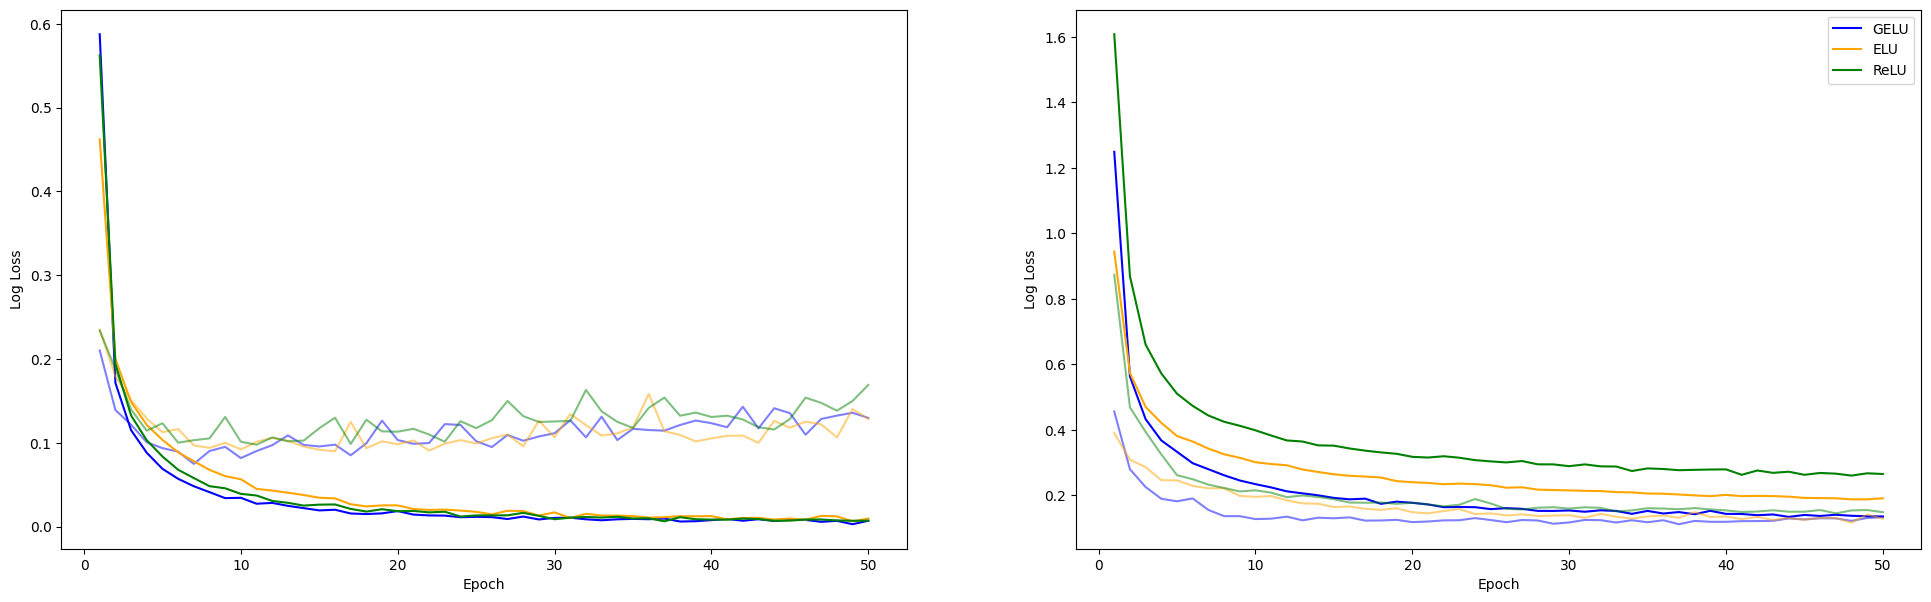
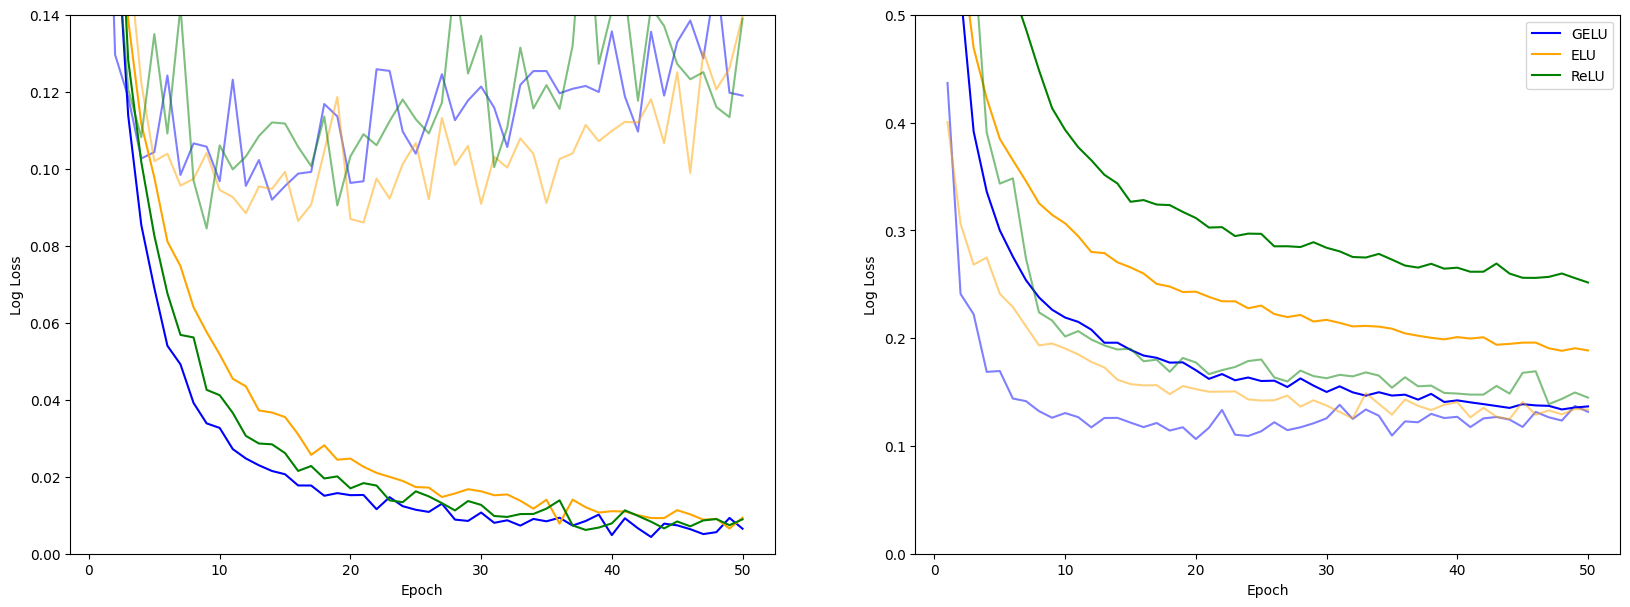
Best plots...

diff --git a/src/visualization.py b/src/visualization.py
@@ -2,7 +2,7 @@ from matplotlib import pyplot as plt
 import os
 
 def plot_mnist_classification(all_history, save_dir):
-    fig, axs = plt.subplots(1, 2, figsize=(24, 7))
+    fig, axs = plt.subplots(1, 2, figsize=(20, 7))
 
     # Loop
     for history in all_history:
@@ -41,6 +41,9 @@ def plot_mnist_classification(all_history, save_dir):
 
     axs[0].set_ylabel("Log Loss")
     axs[1].set_ylabel("Log Loss")
+
+    axs[0].set_ylim(0.0, 0.14)
+    axs[1].set_ylim(0.0, 0.5)
 
     plt.legend()
             
